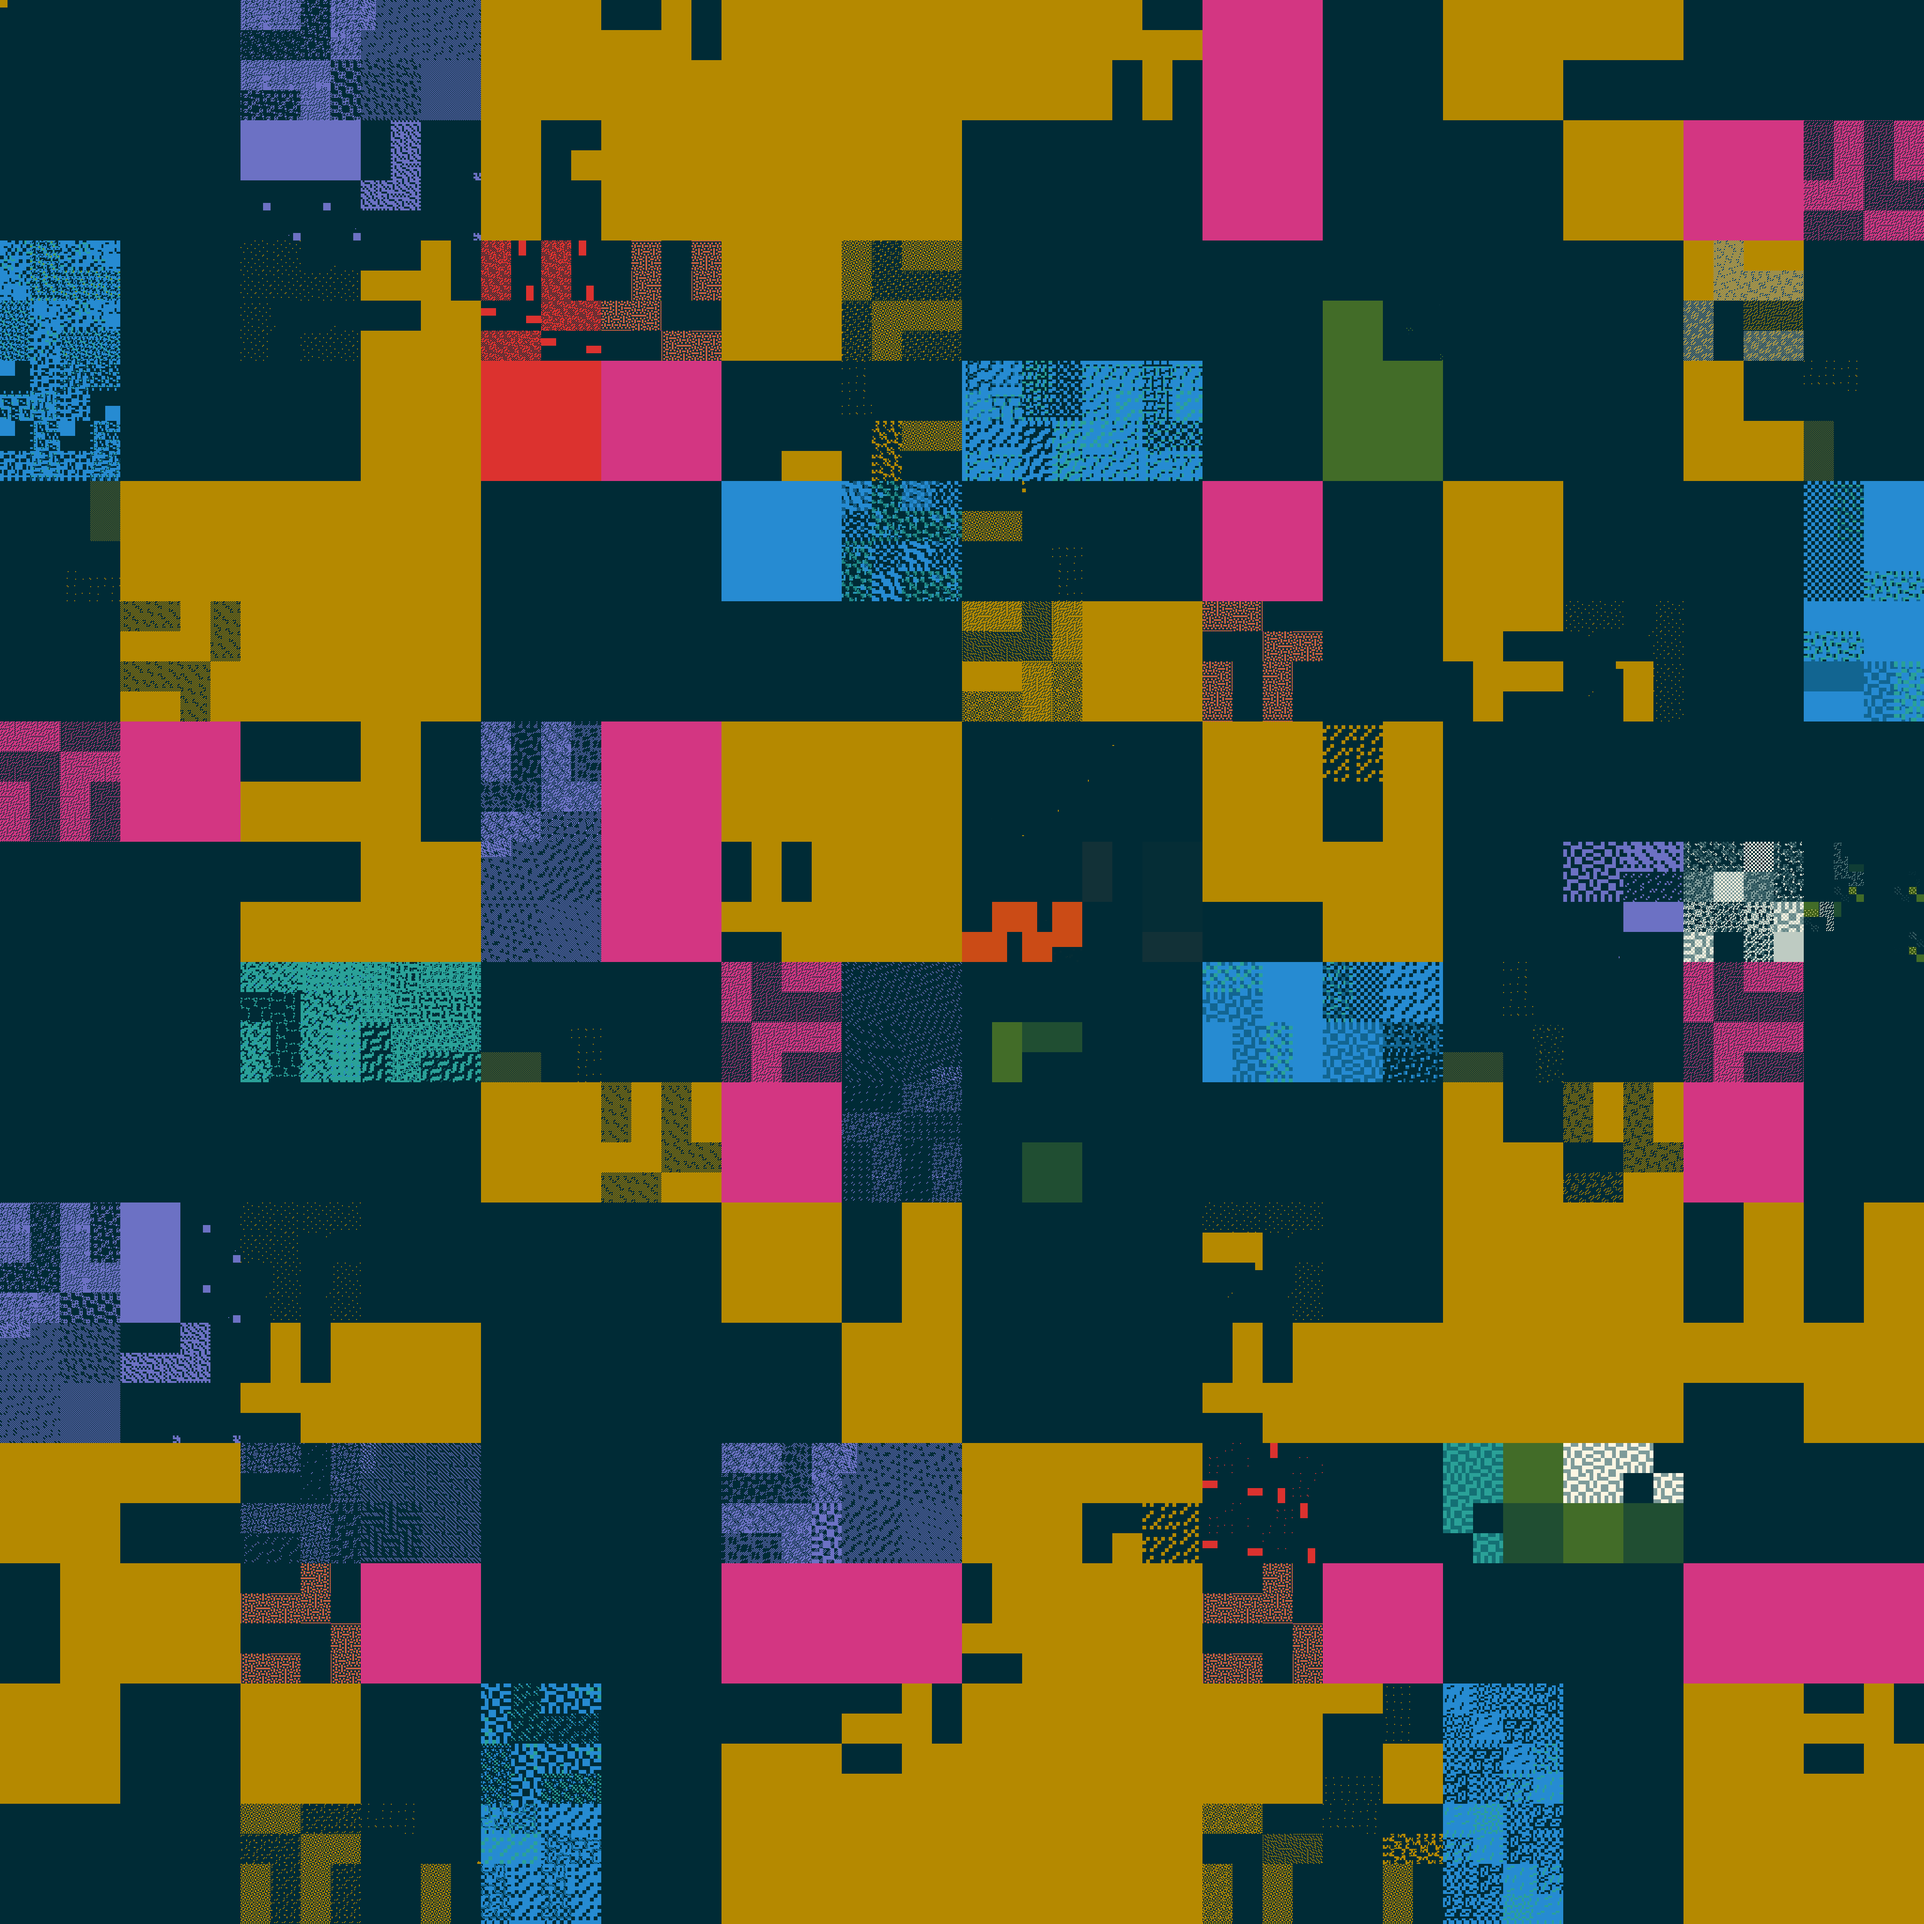
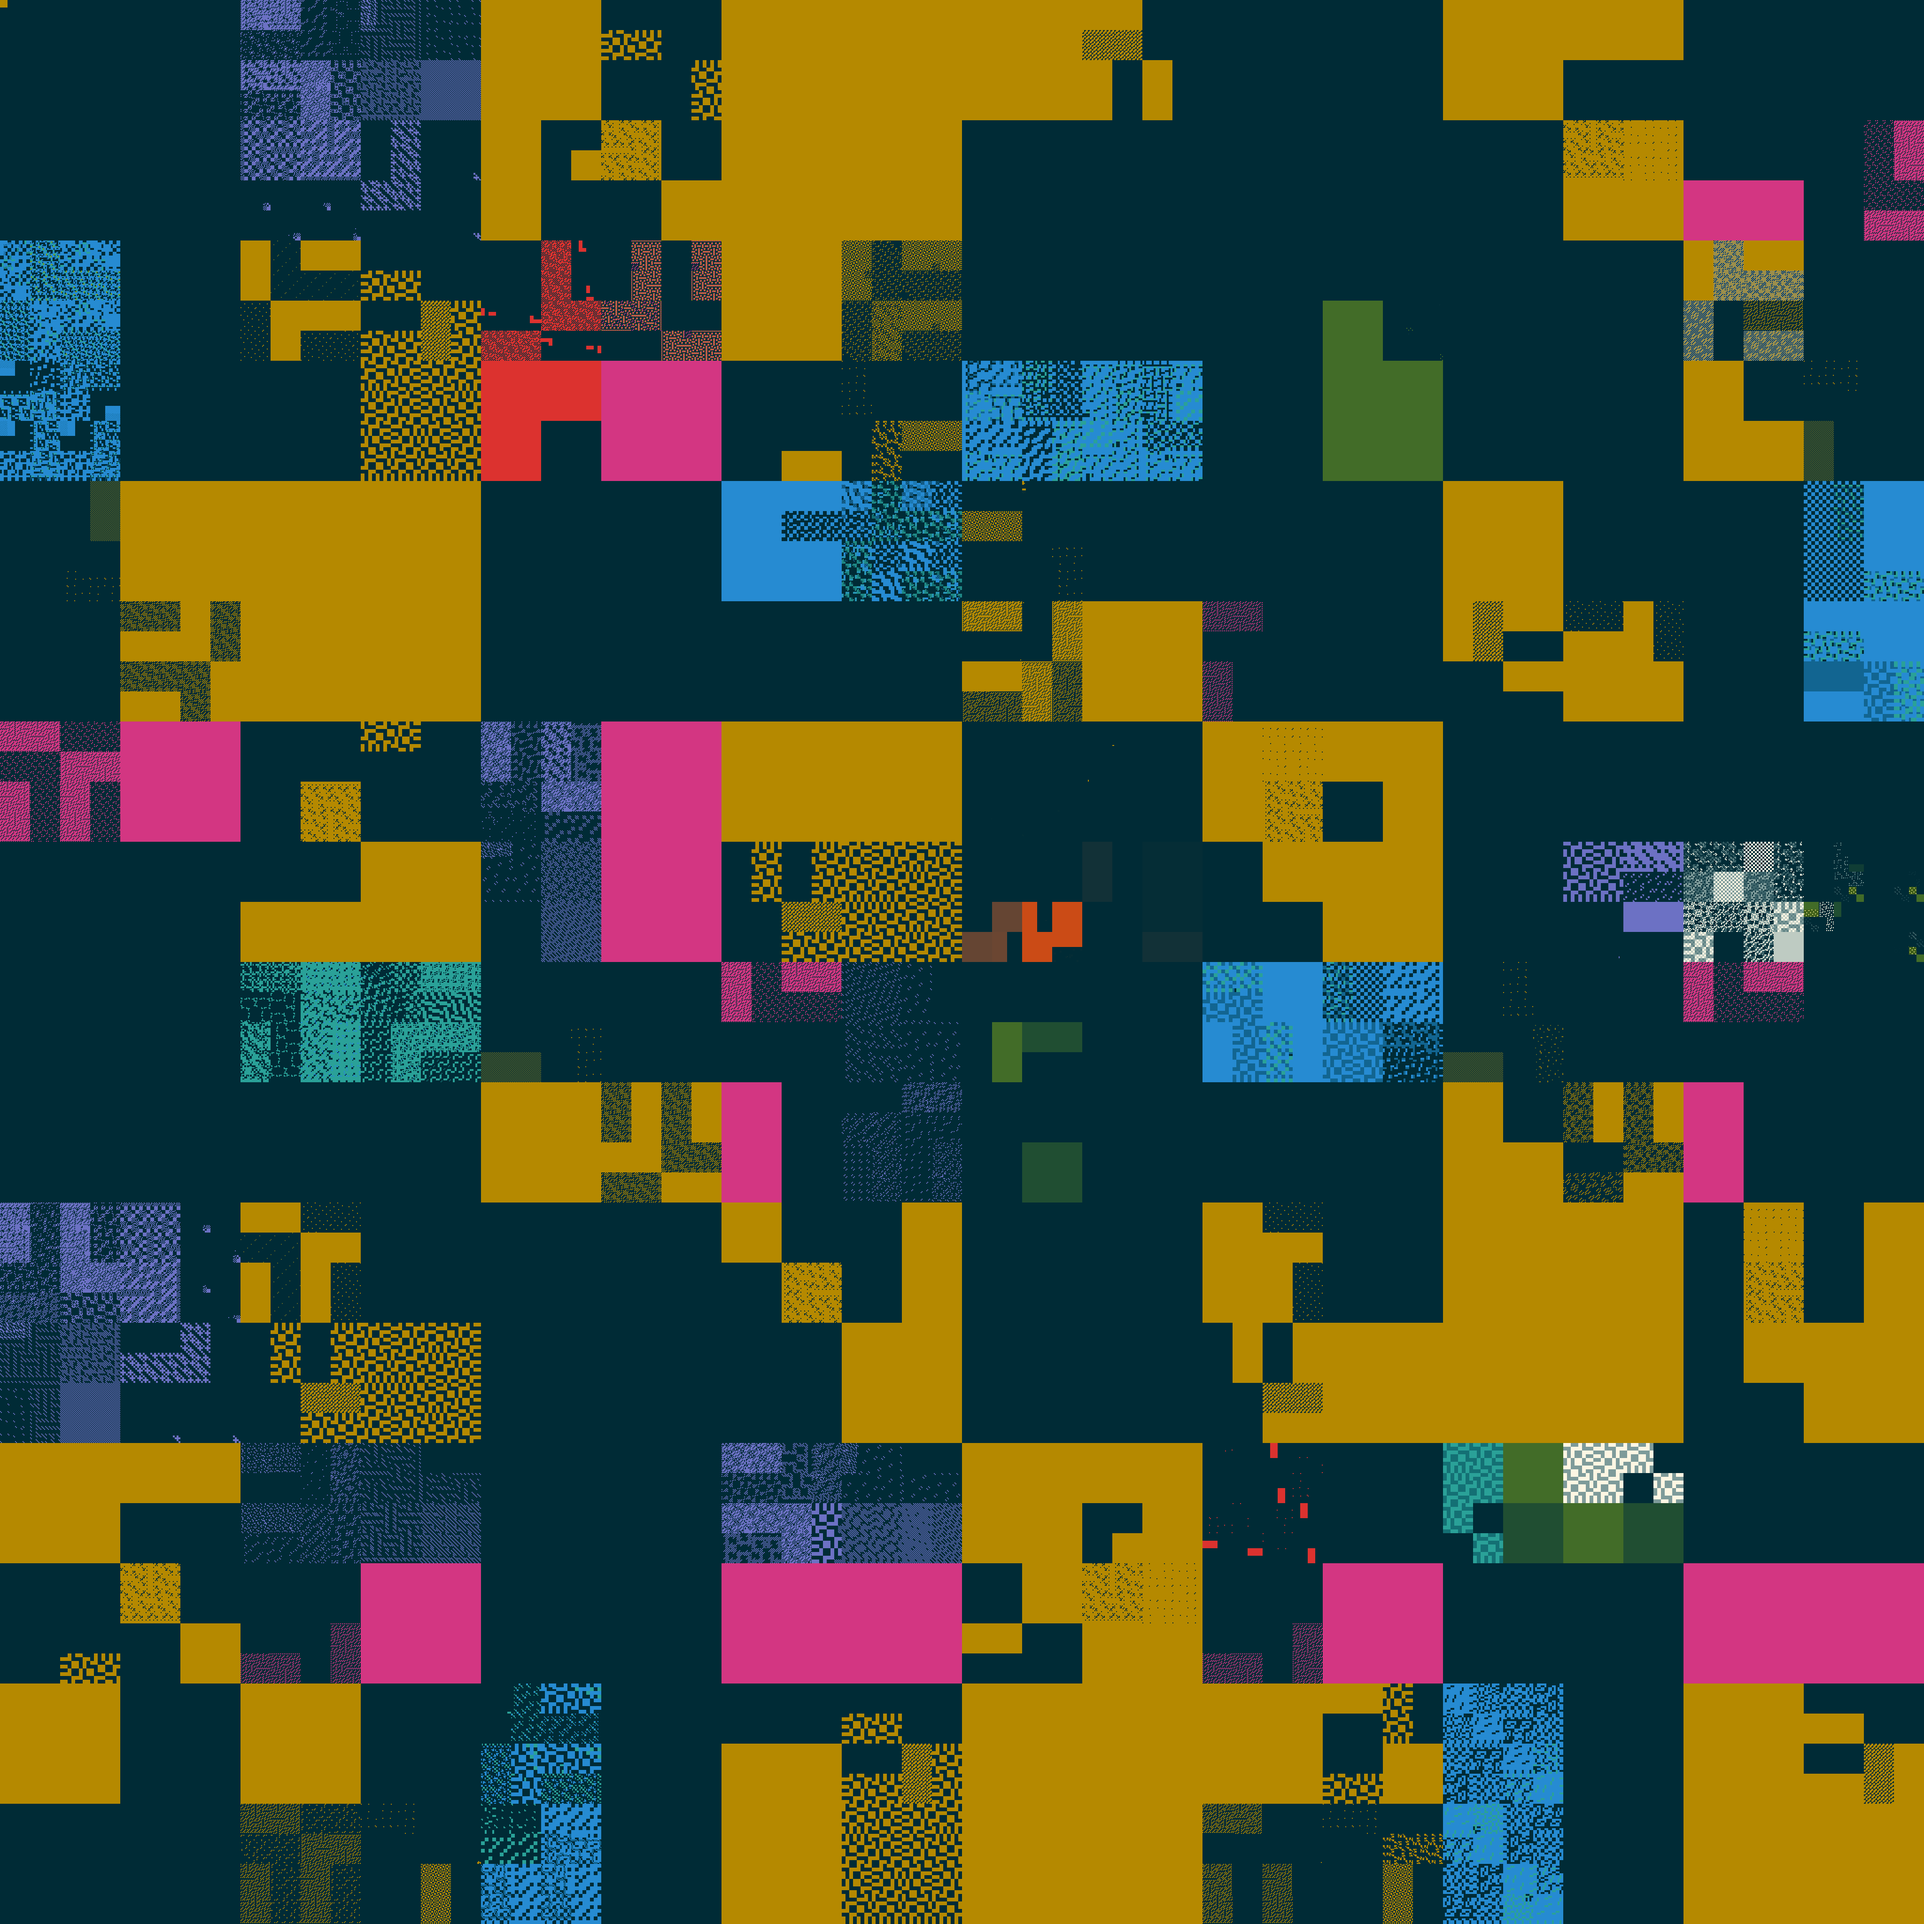
Minor update to blog post

diff --git a/blog/posts/6-arm64/index.html b/blog/posts/6-arm64/index.html
@@ -48,8 +48,10 @@ as a 32-bit integer, so one way to visualize the instruction set is by plotting
 the instructions along a space-filling curve, such as a Hilbert curve<sup id="fnref:1"><a href="#fn:1" class="footnote-ref" role="doc-noteref">1</a></sup>, and
 coloring them according to their instruction class (i.e., <code>general</code>, <code>advsimd</code>,
 <code>float</code>, <code>sve</code>, etc&hellip;).</p>
-<p>Here is the <a href="https://zyedidia.github.io/arm64/index.html">interactive viewer</a>:</p>
-<iframe src="https://zyedidia.github.io/arm64/index.html" style="width: 100%; height: 600px;" frameBorder="0"></iframe>
+<p><a href="https://zyedidia.github.io/arm64/index.html">Click here for the interactive version</a>.</p>
+<img src="../img/6/arm64_monokai.png" style="width: 100%" />
+<img src="../img/6/legend_monokai.png" style="width: 100%" />
+<!-- <iframe src="https://zyedidia.github.io/arm64/index.html" style="width: 70%; height: 600px;"></iframe> -->
 <h1 id="generating-the-visualization">Generating the visualization</h1>
 <p>To generate this visualization, I started with Arm&rsquo;s Machine Readable
 Architecture (MRA) Specification. The most recent version can be downloaded
@@ -85,9 +87,11 @@ their &ldquo;instruction class&rdquo;: one of <code>general</code>, <code>system
 many instructions to plot each instruction as an individual pixel, so each
 pixel in the image corresponds to 256 instructions, and the pixel&rsquo;s alpha value
 corresponds to how filled the pixel is with instructions.</p>
-<p>With a nice theme, we get pretty images like this:</p>
-<img src="../img/6/arm64_monokai.png" style="width: 100%" />
-<img src="../img/6/legend_monokai.png" style="width: 100%" />
+<p>With a nice theme, we get pretty images like these:</p>
+<div align="center">
+<img src="../img/6/arm64_monokai.png" style="width: 48%" />
+<img src="../img/6/arm64_solarized.png" style="width: 48%" />
+</div>
 <p>Some of the more interesting patterns are caused by the SVE2 and SME2 (<code>mortlach2</code>)
 instructions.</p>
 <div align="center">
@@ -96,19 +100,18 @@ instructions.</p>
 </div>
 <h2 id="interactive-website">Interactive website</h2>
 <p>The interactive version is available at
-<a href="https://zyedidia.github.io/arm64/index.html">https://zyedidia.github.io/arm64/index.html</a> (and is included at the top of this
-blog post). It lets you inspect the different instructions and choose the
-overlay that you&rsquo;d like. The main issue is showing the instruction disassembly
-as a string. While the Arm specification does have sections for &ldquo;assembler
-templates&rdquo; describing how an instruction should be displayed as a string, the
-information seems to be intended for a human to read. It&rsquo;s not immediately easy
-to consume the format they give and produce a function that simply maps from
-bits in the instruction to a string representation. I think it is possible, but
-that will be a project for another time. For now, the web version uses a
-version of Capstone compiled to WebAssembly to display instruction disassembly.
-Since it&rsquo;s a somewhat old version of Capstone, it doesn&rsquo;t understand all the
-instructions so in those cases the site just falls back to displaying the name
-of the instruction.</p>
+<a href="https://zyedidia.github.io/arm64/index.html">https://zyedidia.github.io/arm64/index.html</a>. It lets you inspect the different
+instructions and choose the overlay that you&rsquo;d like. The main issue is showing
+the instruction disassembly as a string. While the Arm specification does have
+sections for &ldquo;assembler templates&rdquo; describing how an instruction should be
+displayed as a string, the information seems to be intended for a human to
+read. It&rsquo;s not immediately easy to consume the format they give and produce a
+function that simply maps from bits in the instruction to a string
+representation. I think it is possible, but that will be a project for another
+time. For now, the web version uses a version of Capstone compiled to
+WebAssembly to display instruction disassembly. Since it&rsquo;s a somewhat old
+version of Capstone, it doesn&rsquo;t understand all the instructions so in those
+cases the site just falls back to displaying the name of the instruction.</p>
 <p>The interactive version&rsquo;s fallback also does not take into account the
 Capstone-based post-processing pass, so it may think some locations have
 instructions when they in fact do not.</p>
@@ -172,7 +175,7 @@ modify reserved registers. The full red regions are generally the direct
 branches, which are always guaranteed to be legal thanks to static branch range
 being limited to less than the size of a sandbox. SIMD and floating point
 instructions are also usually red because they don&rsquo;t access memory or modify
-reserved regiters. Not only does it generate a cool picture, but the
+reserved registers. Not only does it generate a cool picture, but the
 visualization can help sanity-check the correctness of the verifier.</p>
 <h1 id="conclusion">Conclusion</h1>
 <p>Thanks for reading! Generating these images has been a fun distraction for me.

diff --git a/blog/posts/5-safe-transmute/index.html b/blog/posts/5-safe-transmute/index.html
@@ -68,10 +68,10 @@ behavior in Safe Rust programs).</p>
 </span></span></span><span style="display:flex;"><span><span style="color:#bbb">    </span><span style="color:#60a0b0;font-style:italic">// make a null pointer
 </span></span></span><span style="display:flex;"><span><span style="color:#60a0b0;font-style:italic"></span><span style="color:#bbb">    </span><span style="color:#007020;font-weight:bold">let</span><span style="color:#bbb"> </span>p<span style="color:#bbb"> </span><span style="color:#666">=</span><span style="color:#bbb"> </span>core::ptr::null_mut();<span style="color:#bbb">
 </span></span></span><span style="display:flex;"><span><span style="color:#bbb">    </span><span style="color:#60a0b0;font-style:italic">// &#34;safely&#34; transmute it into a reference
-</span></span></span><span style="display:flex;"><span><span style="color:#60a0b0;font-style:italic"></span><span style="color:#bbb">    </span><span style="color:#007020;font-weight:bold">let</span><span style="color:#bbb"> </span>x<span style="color:#bbb"> </span><span style="color:#666">=</span><span style="color:#bbb"> </span>transmute::<span style="color:#666">&lt;*</span><span style="color:#007020;font-weight:bold">mut</span><span style="color:#bbb"> </span><span style="color:#902000">i64</span>,<span style="color:#bbb"> </span><span style="color:#666">&amp;&#39;</span><span style="color:#007020">static</span><span style="color:#bbb"> </span><span style="color:#902000">i64</span><span style="color:#666">&gt;</span>(p);<span style="color:#bbb">
+</span></span></span><span style="display:flex;"><span><span style="color:#60a0b0;font-style:italic"></span><span style="color:#bbb">    </span><span style="color:#007020;font-weight:bold">let</span><span style="color:#bbb"> </span>x<span style="color:#bbb"> </span><span style="color:#666">=</span><span style="color:#bbb"> </span>transmute::<span style="color:#666">&lt;*</span><span style="color:#007020;font-weight:bold">mut</span><span style="color:#bbb"> </span><span style="color:#902000">i64</span>,<span style="color:#bbb"> </span><span style="color:#666">&amp;</span><span style="color:#007020">&#39;static</span><span style="color:#bbb"> </span><span style="color:#902000">i64</span><span style="color:#666">&gt;</span>(p);<span style="color:#bbb">
 </span></span></span><span style="display:flex;"><span><span style="color:#bbb">
 </span></span></span><span style="display:flex;"><span><span style="color:#bbb">    </span><span style="color:#60a0b0;font-style:italic">// access the reference
-</span></span></span><span style="display:flex;"><span><span style="color:#60a0b0;font-style:italic"></span><span style="color:#bbb">    </span>println!(<span style="color:#4070a0">&#34;x: {}&#34;</span>,<span style="color:#bbb"> </span><span style="color:#666">*</span>x);<span style="color:#bbb">
+</span></span></span><span style="display:flex;"><span><span style="color:#60a0b0;font-style:italic"></span><span style="color:#bbb">    </span>println!(<span style="color:#4070a0">&#34;x: </span><span style="color:#70a0d0">{}</span><span style="color:#4070a0">&#34;</span>,<span style="color:#bbb"> </span><span style="color:#666">*</span>x);<span style="color:#bbb">
 </span></span></span><span style="display:flex;"><span><span style="color:#bbb"></span>}<span style="color:#bbb">
 </span></span></span></code></pre></div><p>Pretty funny! It&rsquo;s a compiler bug and will hopefully be fixed at some point
 (the issue has been open for 4 years though). I think it&rsquo;s interesting to try

diff --git a/blog/index.html b/blog/index.html
@@ -1,7 +1,7 @@
 <!DOCTYPE html>
 <html lang="en-us">
   <head>
-	<meta name="generator" content="Hugo 0.110.0">
+	<meta name="generator" content="Hugo 0.111.3">
     <meta charset="utf-8">
     <meta name="viewport" content="width=device-width, initial-scale=1">
     <title>Zachary Yedidia&#39;s blog | Zachary Yedidia&#39;s blog</title>
